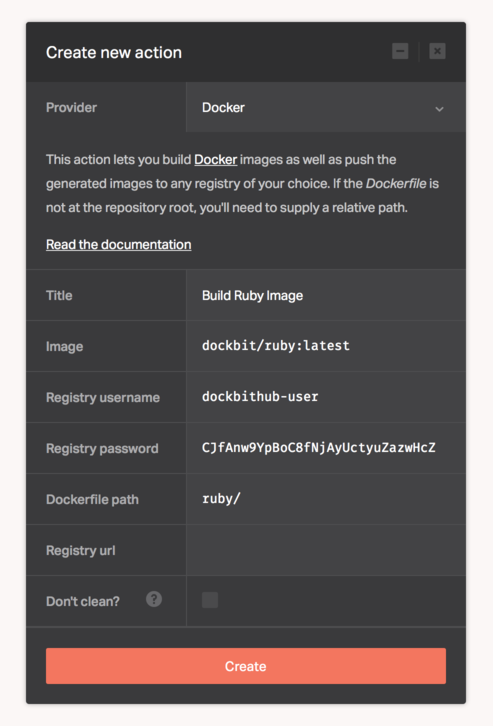
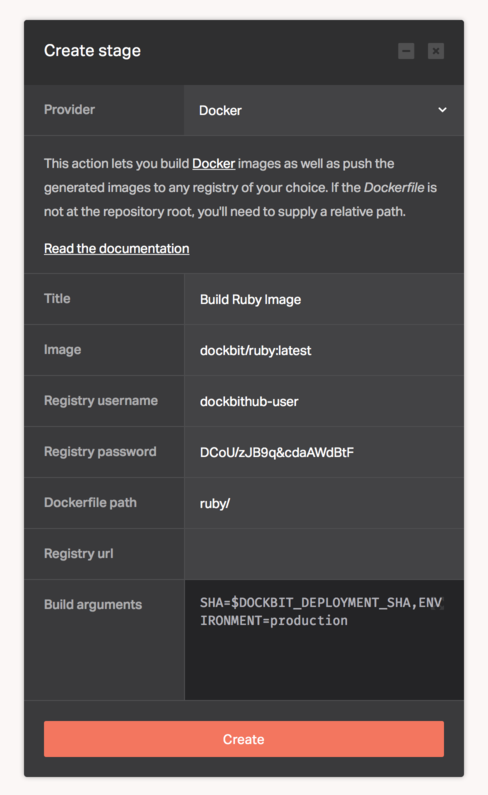
Dockbit provider: Add documentation for build arguments

diff --git a/source/integrations/docker.html.md b/source/integrations/docker.html.md
@@ -11,6 +11,14 @@ If you'd like to use the Docker provider to push images to the [Docker Hub](http
 
 By default, the Docker provider looks for a [Dockerfile](https://docs.docker.com/engine/reference/builder/) at the root of your source code repository. If that's not the case, you can supply a relative path to the directory containing the Dockerfile inside the repository.
 
+The provider supports Docker [build-time arguments](https://docs.docker.com/engine/reference/commandline/build/#set-build-time-variables-build-arg). If you have multiple arguments, you can supply them with comma as the separator. Here's an example:
+
+```
+ENVIRONMENT=production,SHA=$DOCKBIT_DEPLOYMENT_SHA
+```
+
+Take note of `$DOCKBIT_DEPLOYMENT_SHA`. Dockbit [variables](../../using-dockbit/variables) are available and can be used for setting dynamic values for the build-time arguments.
+
 Below you can find the configuration that can be used in the Dockbit Stage:
 
 * ```Image``` - Required - Docker Image name (can include organizations and tags)
@@ -18,6 +26,7 @@ Below you can find the configuration that can be used in the Dockbit Stage:
 * ```Registry password``` - Required - Docker Hub or Registry password
 * ```Dockerfile path``` - Optional - Relative path to Dockerfile
 * ```Registry url``` - Optional - Private registry URL
+* ```Build arguments``` - Optional - Docker [build-time arguments](https://docs.docker.com/engine/reference/commandline/build/#set-build-time-variables-build-arg)
 
 ![Docker](../images/integrations/docker.png)
 
